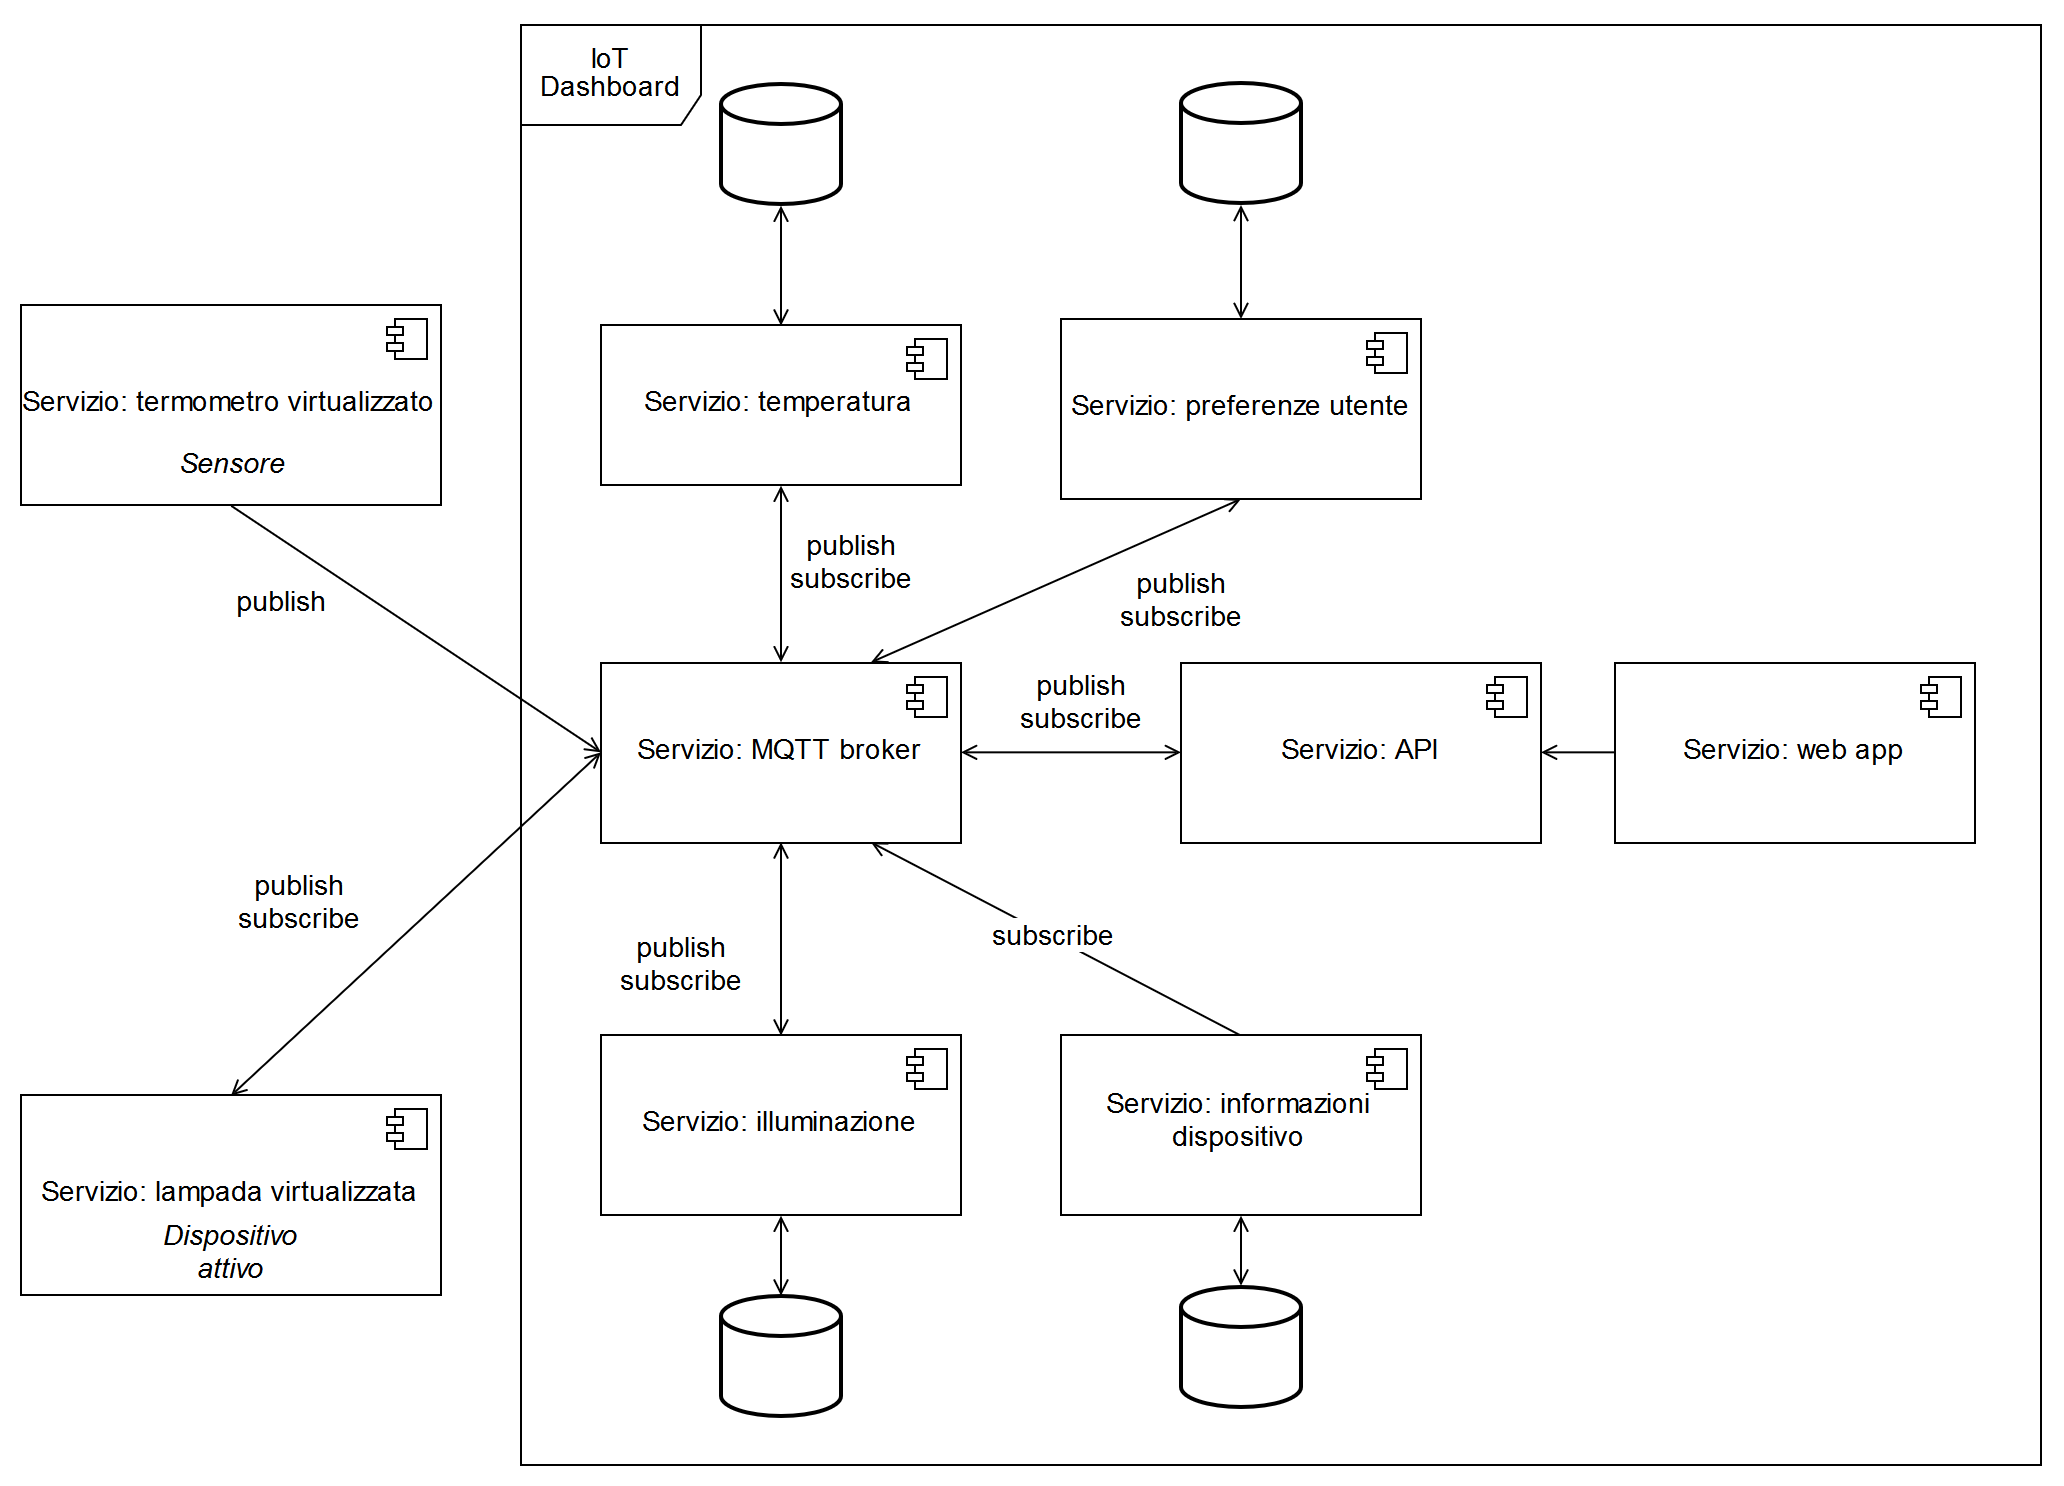
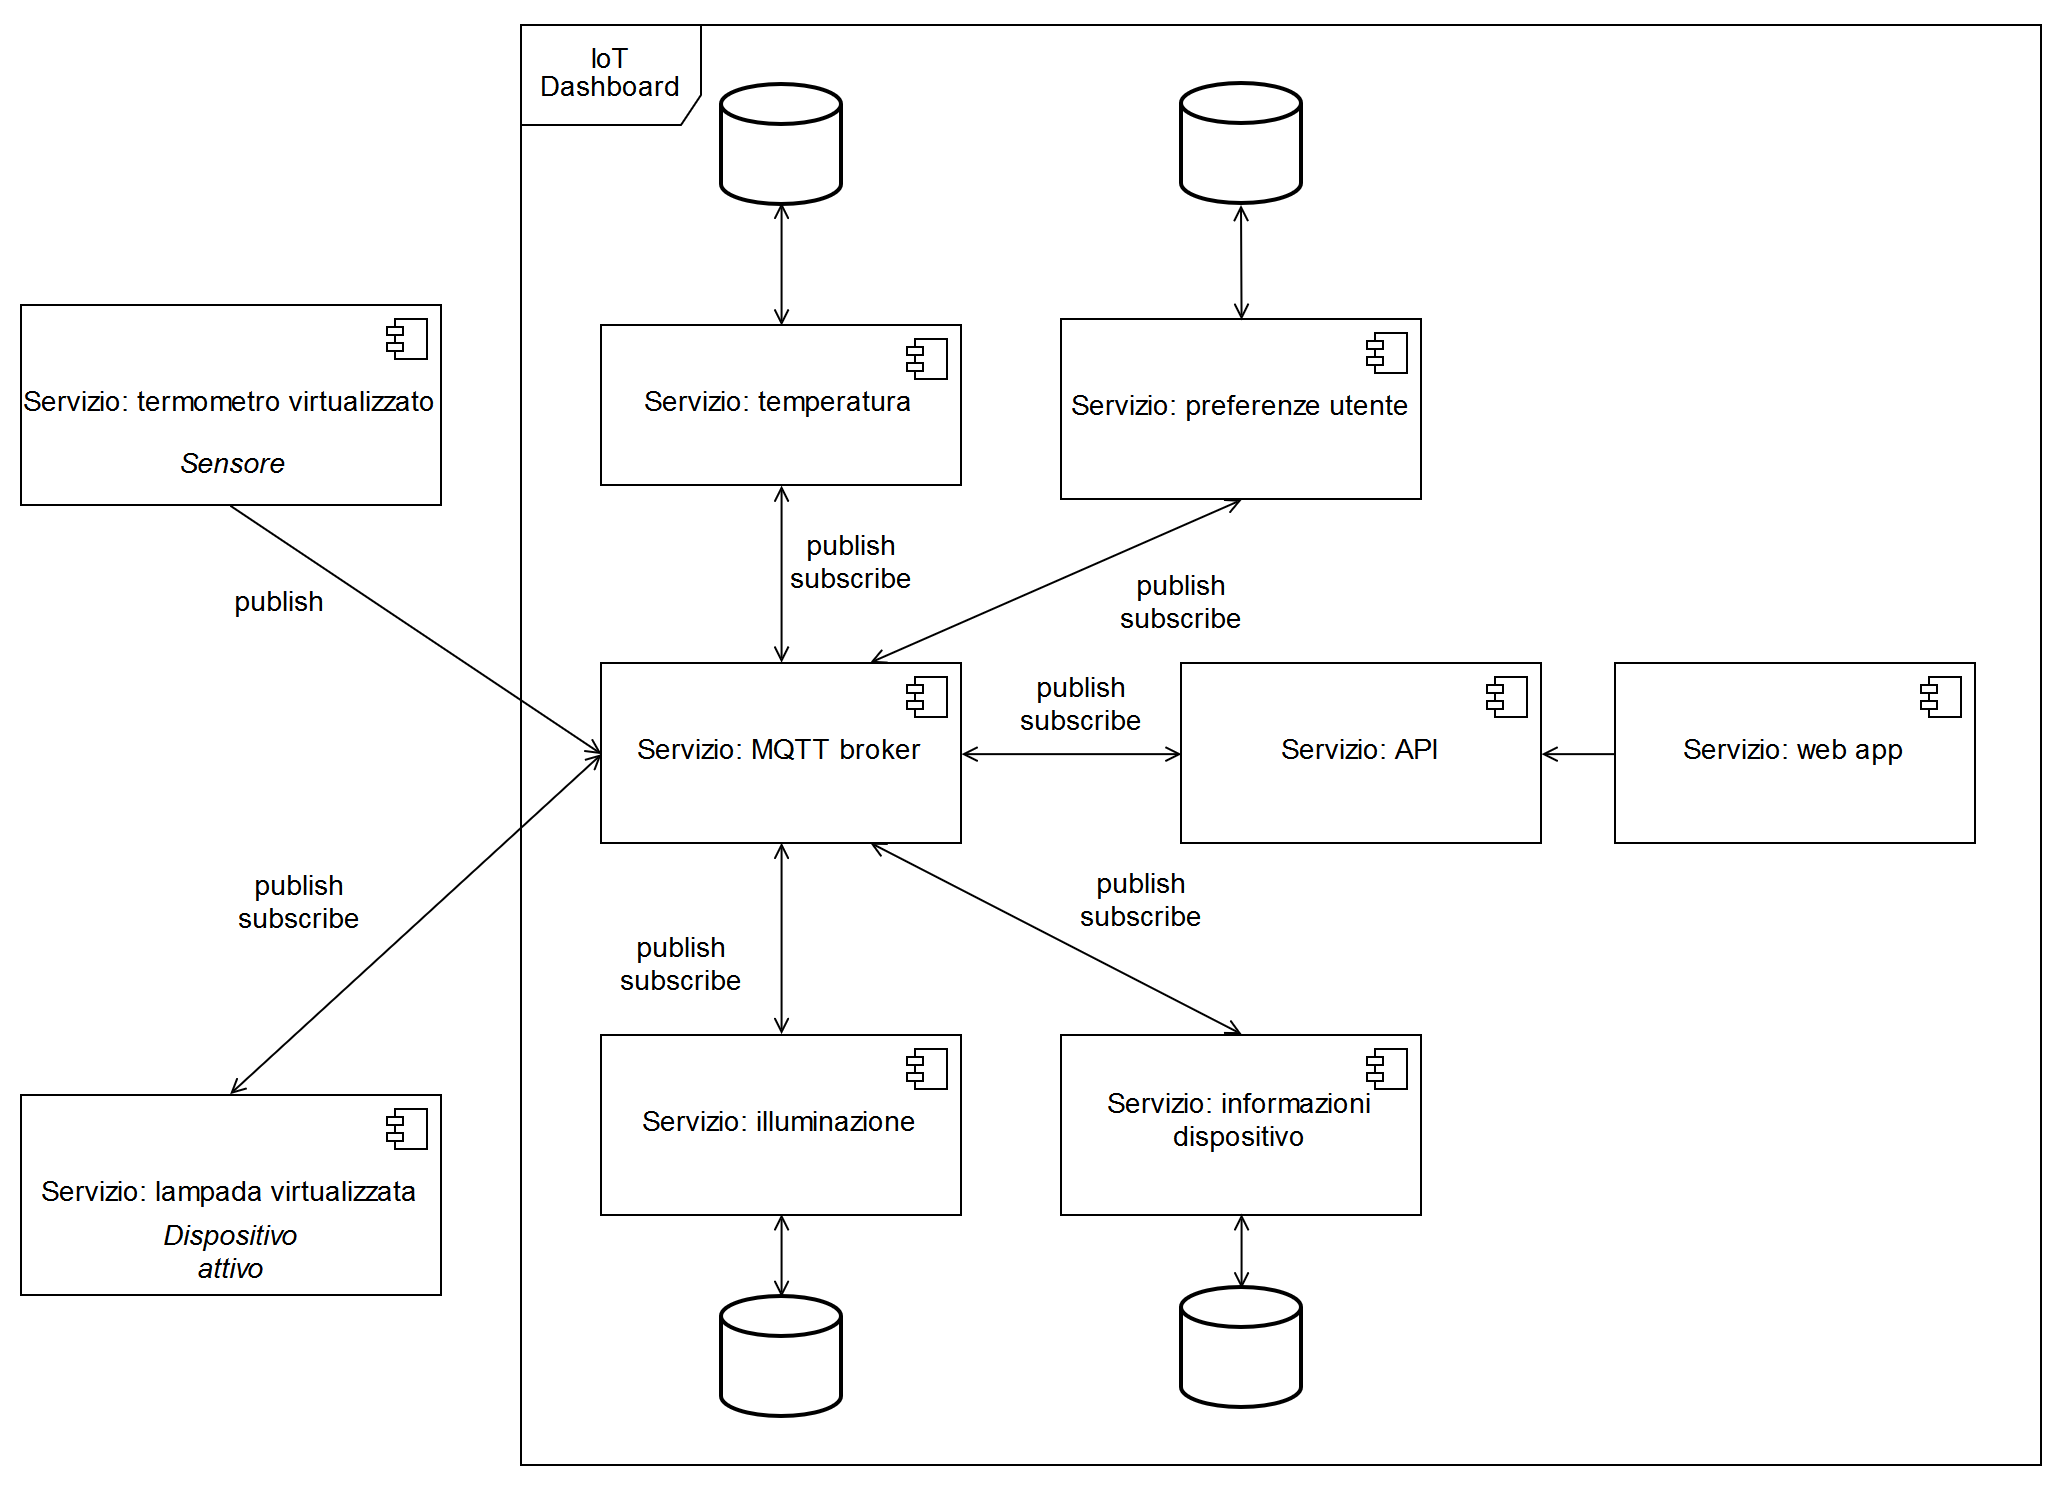
SDD: Added more descriptions to services in arch overview

diff --git a/sdd/sdd.md b/sdd/sdd.md
@@ -155,7 +155,7 @@ Il broker memorizza lo stato di tutti i client a lui connessi, inclusi i messagg
 ### Servizio: termometro _virtualizzato_
 
 Questo servizio simula la presenza di un sensore che invii dati sulla temperatura dell'ambiente in cui si trova.
-Esso pubblica periodicamente la temperatura rilevata secondo l'argomento `temperature`, in congiunzione con i propri dati identificativi, quali produttore, modello e revisione.
+Esso pubblica periodicamente la temperatura rilevata secondo l'argomento `temperature` e secondo l'argomento `hw_info` i propri dati identificativi, quali produttore, modello e revisione.
 Anche se nel diagramma è disegnato individualmente, è possibile che ve ne siano molteplici.
 
 ### Servizio: temperatura
@@ -179,7 +179,24 @@ L'argomento a cui la lampada si sottoscrive è `light/active`, in quanto capace 
 
 ### Servizio: illuminazione
 
-Questo servizio si occupa di raccogliere tutti i dati pubblicati dai dispositivi nella categoria `light` e permette il controllo dei dispositivi che scambiano dati nella categoria `light/active`.
+Questo servizio si occupa di raccogliere e memorizzare tutti i dati pubblicati dai dispositivi nella categoria `light` e permette il controllo dei dispositivi sottoscritti alla categoria `light/active`.
+
+### Servizio: informazioni dispositivo
+
+Questo servizio si occupa di raccogliere e memorizzare tutti i dati pubblicati secondo l'argomento `hw_info`, mettendoli a disposizione degli servizi interessati.
+
+### Servizio: preferenze utente
+
+Questo servizio si occupa di salvare le preferenze utente, quali ad esempio gruppi personalizzati, unità di misura preferite, ecc.
+Il servizio risponde ai messaggi pubblicati nella categoria `user_pref`.
+
+### Servizio: API
+
+Questo servizio svolge un ruolo da intermediario tra il servizio che fornisce l'applicazione web e il broker MQTT. Esso interroga tutti i _topic_ definiti dal sistema per fornire una interfaccia sincrona e asincrona ai dati.
+
+### Servizio: web app
+
+Questo servizio comprende l'applicazione web per la consultazione del sistema per mezzo dei browser. Richiede i dati direttamente al servizio **API**.
 
 ## Design Pattern
 
